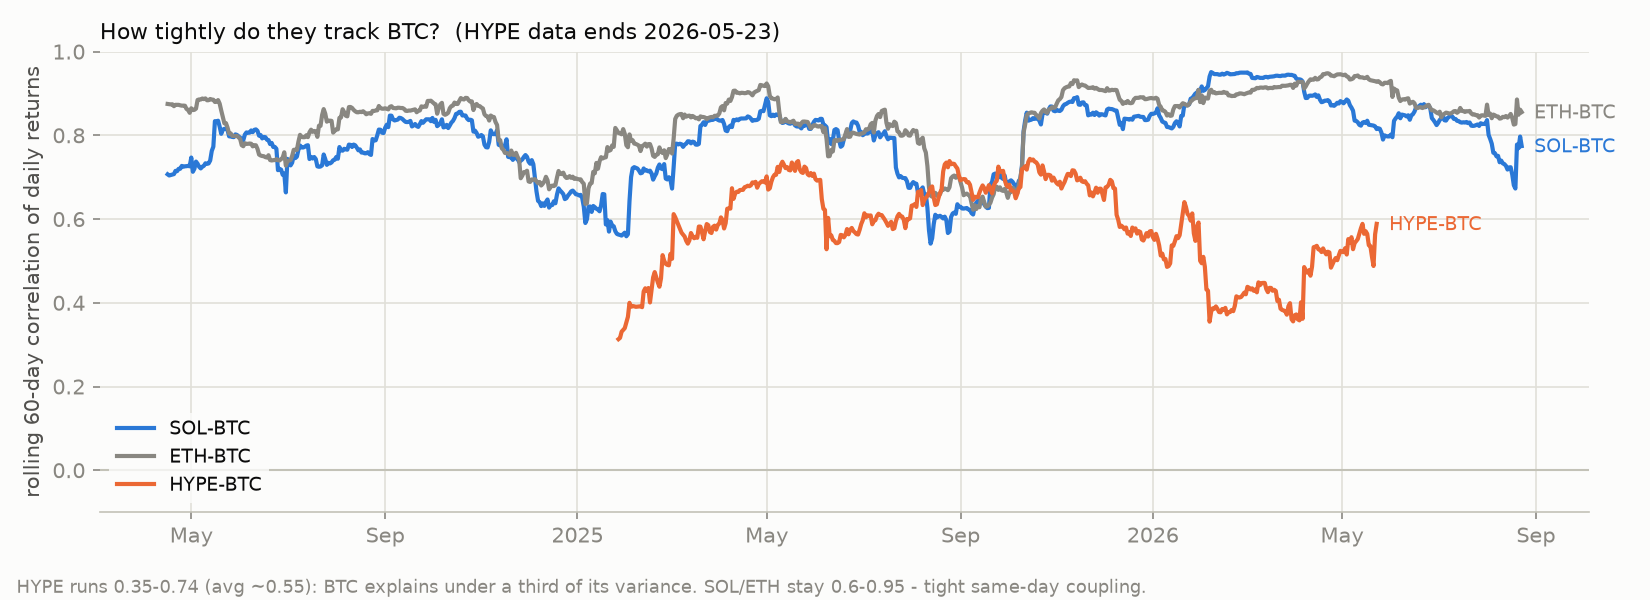
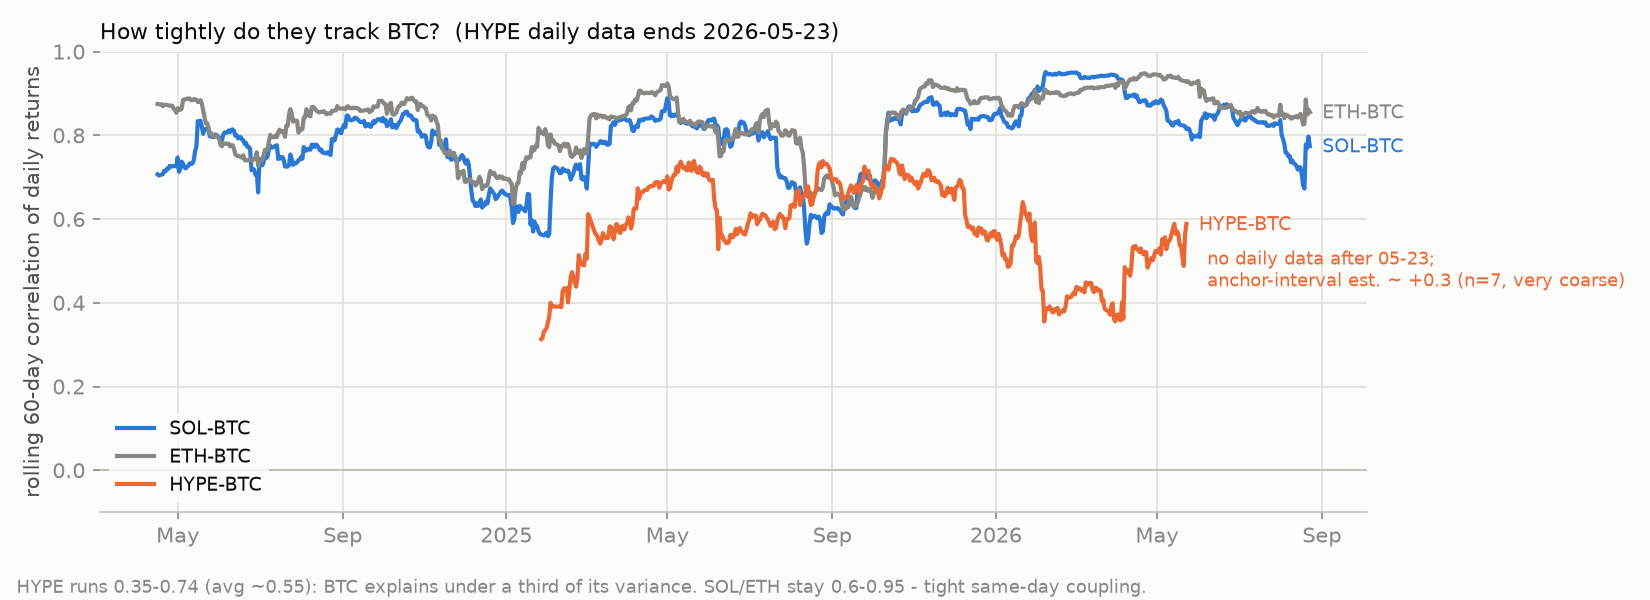
analysis: gap-fill hook for HYPE daily data, coarse anchor estimate
The rolling-correlation chart's HYPE line necessarily stops at
2026-05-23: a 60-day rolling correlation needs day-by-day returns, and
no reachable source provides them after that date (final probe wave of
12 more market-data hosts confirmed all blocked). Add:

- fetch_hype_extension.py: run outside the sandbox to produce
  data/hype_daily_extension.csv (CoinGecko daily closes, API-panel
  timestamp convention)
- btc_leadlag_analysis.py / make_figures.py detect the extension file
  and automatically extend the HYPE-BTC pair stats and the rolling
  chart through the gap
- densified anchors (late-July point, flagged approximate) and a coarse
  anchor-interval correlation for Jun-Aug: +0.30, n=7,
  95% CI [-0.59, +0.86] - direction consistent with deeper decoupling
- fig4 annotates the gap and the coarse estimate

Claude-Session: https://claude.ai/code/session_01LQuRys8UmKAoaYc763RQcp

diff --git a/analysis/btc_leadlag/make_figures.py b/analysis/btc_leadlag/make_figures.py
@@ -167,6 +167,20 @@ def fig_equity(cm_r, api_r):
     plt.close(fig)
 
 
+def load_hype_extension():
+    """Daily HYPE log-returns from data/hype_daily_extension.csv, or None.
+
+    The file is produced by fetch_hype_extension.py (run outside the
+    restricted sandbox); its ~00:00 UTC prices pair with the API panel's BTC.
+    """
+    ext_path = os.path.join(DATA, "hype_daily_extension.csv")
+    if not os.path.exists(ext_path):
+        return None
+    ext = pd.read_csv(ext_path, parse_dates=["date"],
+                      index_col="date").sort_index()
+    return np.log(ext["hype_usd"]).diff()
+
+
 def fig_rolling(cm_r, api_r):
     fig, ax = plt.subplots(figsize=(11, 4.0))
     series = [
@@ -179,10 +193,26 @@ def fig_rolling(cm_r, api_r):
         ax.plot(s.index, s.values, color=color, lw=2, label=lab)
         ax.annotate(lab, (s.index[-1], s.iloc[-1]), xytext=(6, -3),
                     textcoords="offset points", fontsize=9, color=color)
+    hype_ext = load_hype_extension()
+    hype_end = cm_r["hype"].dropna().index[-1]
+    if hype_ext is not None:
+        roll_ext = (api_r["btc"].rolling(60, min_periods=45)
+                    .corr(hype_ext).dropna())
+        roll_ext = roll_ext.loc[hype_end:]
+        ax.plot(roll_ext.index, roll_ext.values, color=ORANGE, lw=2,
+                ls="--", label="HYPE-BTC (extension)")
+        title_note = "HYPE gap filled from data/hype_daily_extension.csv"
+    else:
+        last = cm_r["btc"].rolling(60, min_periods=45).corr(cm_r["hype"]).dropna()
+        ax.annotate("no daily data after 05-23;\nanchor-interval est. ~ +0.3 "
+                    "(n=7, very coarse)",
+                    (hype_end, last.iloc[-1]), xytext=(10, -30),
+                    textcoords="offset points", fontsize=8.5, color=ORANGE)
+        title_note = "HYPE daily data ends 2026-05-23"
     ax.axhline(0, color=BASE, lw=1)
     ax.set_ylim(-0.1, 1.0)
     ax.set_ylabel("rolling 60-day correlation of daily returns")
-    ax.set_title("How tightly do they track BTC?  (HYPE data ends 2026-05-23)",
+    ax.set_title(f"How tightly do they track BTC?  ({title_note})",
                  fontsize=10.5, color=INK, loc="left")
     ax.legend(frameon=True, facecolor=SURFACE, edgecolor="none", fontsize=9,
               loc="lower left")

diff --git a/analysis/btc_leadlag/btc_leadlag_analysis.py b/analysis/btc_leadlag/btc_leadlag_analysis.py
@@ -70,6 +70,22 @@ def load_panels():
     return cm, api, cm_r, api_r
 
 
+def load_hype_extension():
+    """Optional user-supplied daily HYPE closes for the post-2026-05-23 gap.
+
+    Produce data/hype_daily_extension.csv with fetch_hype_extension.py (run
+    outside the restricted sandbox) or any source: one row per day, columns
+    date, hype_usd (~00:00 UTC prices — the API panel's convention, so the
+    BTC leg pairs against api_r["btc"]). Returns hype log-returns or None.
+    """
+    ext_path = os.path.join(DATA, "hype_daily_extension.csv")
+    if not os.path.exists(ext_path):
+        return None
+    ext = pd.read_csv(ext_path, parse_dates=["date"],
+                      index_col="date").sort_index()
+    return np.log(ext["hype_usd"]).diff().rename("hype")
+
+
 # --------------------------------------------------------------------------- #
 # statistics
 # --------------------------------------------------------------------------- #
@@ -329,6 +345,11 @@ def main():
     # HYPE vs BTC on the CM panel (both EOD closes)
     pair_report("HYPE_vs_BTC_cm", cm_r["btc"], cm_r["hype"], results)
     extras_report("HYPE_vs_BTC_cm", cm_r["btc"], cm_r["hype"], results)
+    # optional user-supplied extension covering the post-2026-05-23 gap
+    hype_ext = load_hype_extension()
+    if hype_ext is not None:
+        pair_report("HYPE_vs_BTC_extension", api_r["btc"], hype_ext, results)
+        extras_report("HYPE_vs_BTC_extension", api_r["btc"], hype_ext, results)
     # SOL vs BTC on the API panel (freshest, through 2026-08-23)
     pair_report("SOL_vs_BTC_api", api_r["btc"], api_r["sol"], results)
     extras_report("SOL_vs_BTC_api", api_r["btc"], api_r["sol"], results)

diff --git a/analysis/btc_leadlag/fetch_hype_extension.py b/analysis/btc_leadlag/fetch_hype_extension.py
@@ -1,0 +1,33 @@
+"""Fetch daily HYPE closes to fill the post-2026-05-23 gap.
+
+Run this OUTSIDE the restricted analysis sandbox (normal internet needed):
+
+    python fetch_hype_extension.py
+
+It writes data/hype_daily_extension.csv (columns: date, hype_usd — daily
+~00:00 UTC prices from CoinGecko, the same timestamp convention as
+data/daily_panel_api.csv). Once the file exists, btc_leadlag_analysis.py
+and make_figures.py automatically extend the HYPE-BTC pair and the
+rolling-correlation chart through the gap. Any other source works too, as
+long as the CSV has one row per day with a date and a USD close.
+"""
+import csv
+import datetime as dt
+import json
+import os
+import urllib.request
+
+HERE = os.path.dirname(os.path.abspath(__file__))
+URL = ("https://api.coingecko.com/api/v3/coins/hyperliquid/market_chart"
+       "?vs_currency=usd&days=180&interval=daily")
+
+req = urllib.request.Request(URL, headers={"User-Agent": "btc-leadlag-study"})
+data = json.load(urllib.request.urlopen(req, timeout=30))
+out = os.path.join(HERE, "data", "hype_daily_extension.csv")
+with open(out, "w", newline="") as f:
+    w = csv.writer(f)
+    w.writerow(["date", "hype_usd"])
+    for ts_ms, px in data["prices"]:
+        day = dt.datetime.fromtimestamp(ts_ms / 1000, dt.timezone.utc)
+        w.writerow([day.strftime("%Y-%m-%d"), round(px, 6)])
+print("wrote", out)
